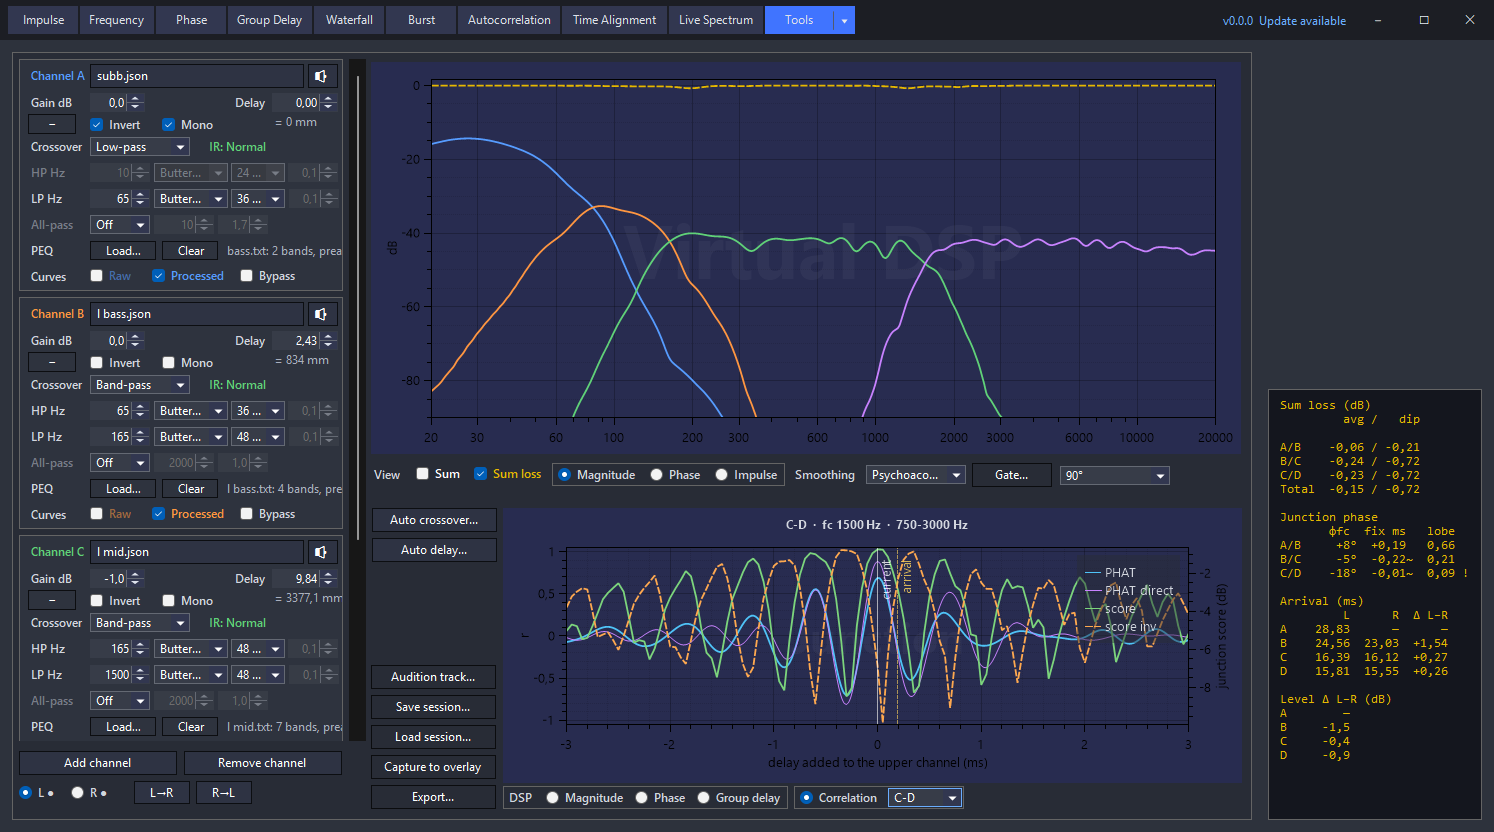
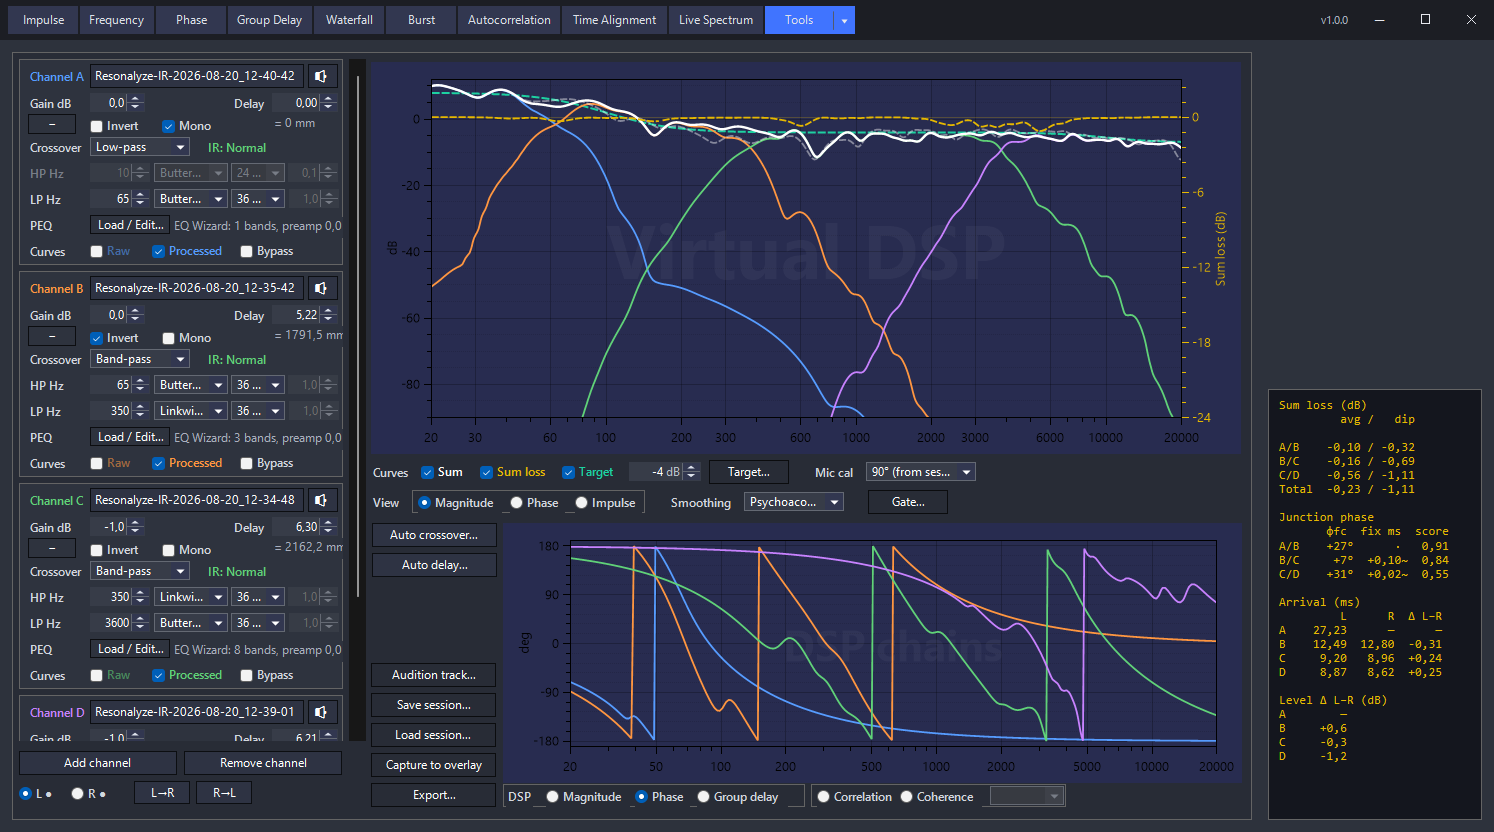
Reshoot the README stills, and add one for the phase view
Both existing stills predate the work: the Virtual DSP one still shows a
channel card with its All-pass row, and the EQ Wizard one an add column
without the AP1/AP2 tiles. Both retaken on the same real four-way session
they always showed, at the size they were.

The wizard's still stays a MAGNITUDE shot — it is the illustration that
introduces the tool, and phase would leave a reader without the source, the
target and the error fill. The phase view gets a still of its own instead,
beside the paragraph that describes it: a midbass zoomed onto its 350 Hz
junction, its neighbours in the colours the panel gave them, and an
all-pass on the corner reading out the group delay it adds.

The all-pass in that shot is dialled in for the picture; every other filter,
and every curve, is the session's own.

diff --git a/README.md b/README.md
@@ -1262,6 +1262,14 @@ plot: that curve has no crossover, delay or polarity in front of it while they
 have all of theirs, so lining it up against them would line up a system nobody
 is building.
 
+![EQ Wizard phase mode](assets/images/eq_wizard_phase.png)
+
+Above: a midbass handed over from Virtual DSP, zoomed onto its 350 Hz junction
+with the midrange. The channel under edit is the solid curve, its dashed twin is
+the same channel before the bank, and the neighbouring drivers keep the colours
+they had on the panel. Slot 4 is a second-order all-pass on the corner, reading
+out the 1.27 ms of group delay it piles up there.
+
 **Phase gate…** is the window those curves are read through — the same dialog,
 and the same settings, the Virtual DSP phase view uses, down to the impulse
 preview of every channel it draws. A handoff arrives with its gate already
